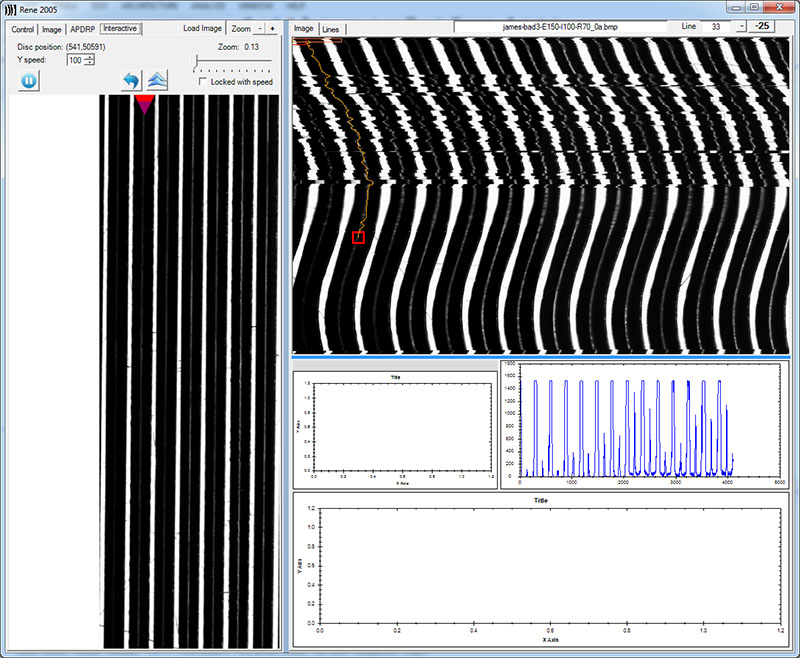
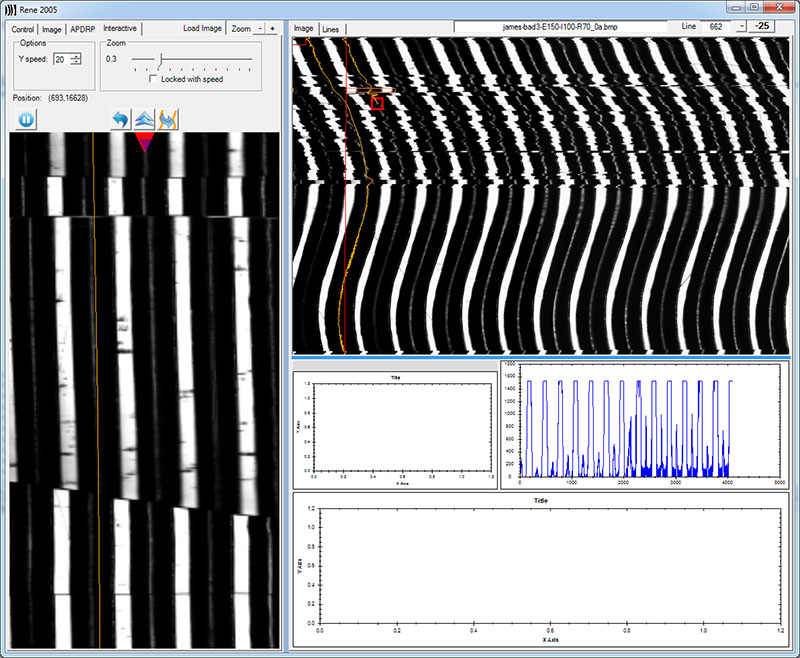
Updated interactive tracking section

Changed region(s): [[0.0, 0.0, 1.0, 1.0], [0.375, 0.0304, 0.5, 0.3951], [0.875, 0.0304, 0.9062, 0.0608]]

diff --git a/content/chapters.tex b/content/chapters.tex
@@ -681,6 +681,7 @@ The current user interface for manual tracking is functional but can still be im
 This section presents the interactive tracking feature as it has been integrated into the \gls{prism} program. The next two subsections present it in terms of main features and graphical interface, before detailing the implementation and software design.
 
 \subsection{Main features}
+\label{sec:intfeatures}
 
 To use the interactive tracking, the user first selects the corresponding button in the tracking options. Then, when the record is loaded, the corresponding disc is visible in the interactive panel. A red triangle acts as a beacon to clearly see the current tracked position.
 
@@ -733,6 +734,10 @@ It also often happens, in the case of cracks, that once the correct way has been
 
 One can see that even if the path is not evident, once it has been found the exact same pattern can be copied for every revolution.
 
+\subsubsection{Magnifier}
+
+Given the properties of the interactive tracking another interesting feature would be also to act as a magnifier to help the user analyzing the record before actually tracking it. In fact, the interactive view provides an option to change the zoom level. As the drawing is interactive and drawn several times per second, the showed position can also be adjusted directly when the mouse is simply moving on the binned image but without tracking. When the mouse leave the area, the interactive directly returns to its last tracked position.
+
 \subsection{Graphical design}
 
 \subsubsection{Location and integration}
@@ -756,18 +761,16 @@ The interactive tracking panel is separated in two parts: controls and visualiza
 
 The controls enable to monitor the tracking by changing several parameters such as the speed or the zoom level. As explained in \autoref{sec:inttrack}, the zoom can also be locked regarding to the speed, using the corresponding option.
 
-%\subsection{Implementation details}
-%\label{sec:intimpldet}
-
-%\subsubsection{Bitmap creation}
 \subsection{Bitmap creation}
 
+%TODO explain contrast adjustment
 At creation, the scanned record must firstly be converted to a bitmap, so that it can be drawn on the panel. Most part of the process is implemented in the \texttt{BitmapFromData()} in the utility class.
 
 As already explained, the raw data of the scanned record is stored as an array of floating-point values (see~\autoref{sec:3dcaptureprop}). They must then be converted and normalized to be stored as values in the range \numrange[range-phrase=--]{0}{255} to represents pixel values. The bitmap created has the \SI{8}{bpp} format, using a 256 colors palette of grayscale values, so that the memory is not wasted with other colors.
 
 %\subsubsection{Draw panel animation}
 \subsection{Drawing}
+\label{sec:intdrawing}
 
 The main implementation point is to update and draw the panel. This part is handled using \gls{gdi}, provided in Microsoft .NET through the \texttt{System.Drawing} classes.
 
@@ -823,21 +826,28 @@ The bitmap and the tracked points are drawn in the same coordinate system. One c
 
 The matrix is then reset to draw the red triangle. No transformation is needed as it is directly positioned at the very top center. Then, to draw the actual tracked position indicated by the blue triangle, the same transformations as for the bitmap must be applied for the X coordinates. However, we cannot just alter the current matrix. Indeed, the zoom would alter the triangle size as well. As for the record, we only want the position to be altered. The only way is then to define a new matrix and only apply the transformation to the point, before setting the position.
 
-%\subsubsection{Groove center approximation}
 \subsection{Groove center approximation}
 \label{sec:centerapprox}
 
-As explained in the previous section, the groove center is refined from the position indicated by the user. This is done by iterating $n$ points before and after the current point in the same row, and returning the deepest position. The $n$ value is determined using an approximated groove width and a tolerance factor $t$ in the range $[0,1]$. For example, if the groove width is $60$ and the tolerance $0.8$, then $n = \frac{60}{2} t = 24$.
+As explained in the previous section, the groove center is refined from the position indicated by the user. This is done by iterating $n$ points before and after the current point in the same row, and returning the deepest position. The $n$ value is determined using an approximated groove width and a tolerance factor $t$ in the range $[0,1]$. For example, if the groove width is $60$ and the tolerance $0.8$, then $n = \frac{60}{2} t = 24$. The groove width can be fixed or determined by analyzing the record. This step will be explained in \autoref{sec:groovefilter}.
 
-The groove width can be fixed or determined by analyzing the record. This step will be explained in \autoref{sec:groovefilter}.
-
-\subsubsection{Using curve fitting}
-
-TODO.
+Later in the project, the implementation of the center approximation has been improved and extracted to be used in the automatic cracks processing, explained in the next chapter. The code is then reused and enables to get a more accurate and stable approximation by using curve fitting. The implementation is detailed in \autoref{sec:groovetracking}.
 
 \subsection{Managing tracked points}
 
-TODO.
+Several features have been added to help the user. It includes the possibility to undo an operation or copy the pattern tracked in the previous revolution (see \autoref{sec:intfeatures}). From the implementation's point of view, these features concern the access to the tracked points.
+
+From the existing implementation, the collection storing the points is already present as a list called \texttt{ManualTrack} in the existing \texttt{Hardware} class and publicly accessible by the \texttt{frmMain} class. This collection is directly used as it enables to integrate the new interactive features in the application while taking advantage of the previously implemented features such as save and restore the tracking to and from a file.
+
+However, it is more convenient to encapsulate this collection in a class managing the options such as undo and clone. When adding or removing a point we need to keep track of different things. For example when starting a new revolution (at the top of the mapped image), the last point index must be stored, in order to know from which to copy the last revolution.
+
+Likewise, when several points is added in one step, for example with the assisted tracking or by copying the last revolution, it is more convenient for the user if the undo options remove all added points in one shot, instead of having to remove all automatically tracked points if the result is not satisfying.
+
+For this purpose, a class called \texttt{TrackedPoints} acts as the collection of points, implementing methods such as \texttt{Add()} or \texttt{RemoveAt()} but also a method \texttt{Undo()} and \texttt{CopyLastRevolution()} to handle the corresponding features. At construction time, it takes the initial collection of tracked points and performs directly on it.
+
+\subsection{Assisted tracking}
+
+As already explained, this feature enables to automatically track a part of a disc. When the user clicks on the binned image while pressing the \emph{Shift} key, the program is able to follow the groove center automatically. In fact, using the routines written for the center approximation (see \autoref{sec:centerapprox}, the implementation is quite straightforward. It consists of looping between the two vertical position, and applying the approximation algorithm to adjust the center at each step.
 
 \subsection{Design and classes organization}
 
@@ -2280,7 +2290,7 @@ The \texttt{ObjectDrawer} class is a utility to draw all results, as the actual 
 \label{fig:prismdrawex}
 \end{figure}
 
-The existing drawing methods, \texttt{ pict\_paint()} and \texttt{snd\_paint()} are already implemented in the \texttt{frmMain} class. To draw these new objects, they call the \texttt{DrawObjects()} method to the facade which then dispatches the drawing properly. The exact same code is used to draw the objects on the binned or the detailed image. The corresponding matrix transforms are computed priorly in the paint methods (this technique is described in \autoref{sec:intimpldet}).
+The existing drawing methods, \texttt{ pict\_paint()} and \texttt{snd\_paint()} are already implemented in the \texttt{frmMain} class. To draw these new objects, they call the \texttt{DrawObjects()} method to the facade which then dispatches the drawing properly. The exact same code is used to draw the objects on the binned or the detailed image. The corresponding matrix transforms are computed priorly in the paint methods (this technique is described in \autoref{sec:intdrawing}).
 
 %TODO add general information/considerations
 
